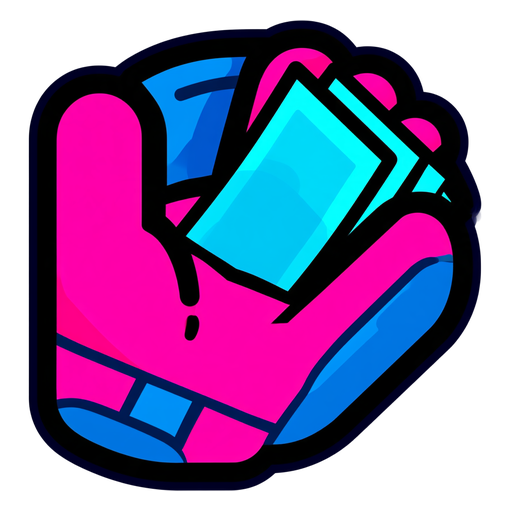
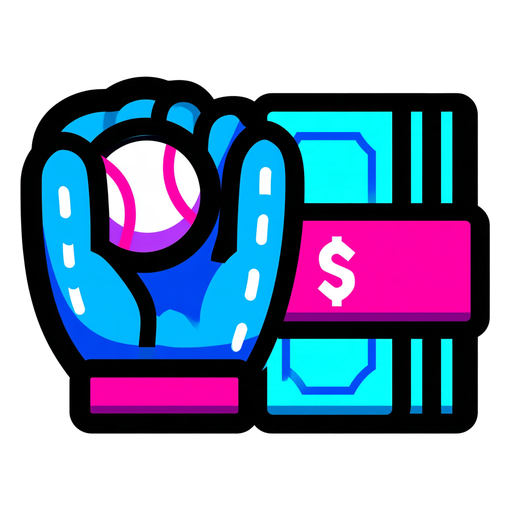
feat(mj): cash-catch se lee (guante con pelota y fajo con $); formas, dias y decenas, a lo más simple
Midjourney no acierta texto de más de tres o cuatro caracteres (dos rondas
de días y decenas con letras o cifras de menos): decenas pasa a un «10»
grande y dias a un calendario con 7 casillas sin letras. formas, tres figuras
sencillas una sobre otra, de tamaño parecido.

diff --git a/scripts/mj/tests/test_catalogo_fase5.py b/scripts/mj/tests/test_catalogo_fase5.py
@@ -77,7 +77,7 @@ def test_doty_solo_donde_la_spec_lo_pone():
 def test_solo_letras_y_numeros_llevan_glifos():
     # decenas entra en la 2ª generación: su marcador muestra 10, 20 y 30.
     assert {p["slug"] for p in _cat()["pieces"] if p.get("glyphs")} == \
-        {"abecedario", "numeros-1-20", "decenas", "dias", "cash-catch"} & _slugs()
+        {"abecedario", "numeros-1-20", "decenas", "cash-catch"} & _slugs()
 
 
 def test_solo_colores_sale_de_la_paleta_cerrada():

diff --git a/docs/superpowers/specs/2026-09-29-tiles-de-modulos-design.md b/docs/superpowers/specs/2026-09-29-tiles-de-modulos-design.md
@@ -155,8 +155,8 @@ respondería 500 sin ella.
   temas de cosas van sin él. Canon: sin zapatos, sin gafas, y sin orejas,
   nariz ni pelo — por eso `cuerpo` y `pelo` no pueden ser Doty.
 - **Texto**: prohibido salvo en `abecedario` (A B C), `numeros-1-20`
-  (1 2 3) y, desde la 2ª generación, `decenas` (10 20 30) y `dias` (las
-  iniciales M T W T F S S) y el símbolo $ de `cash-catch`, como glifos
+  (1 2 3), `decenas` (un «10» grande) y el símbolo $ de `cash-catch`, como
+  glifos
   sueltos; en esas piezas `text` sale de los negativos. Plan B si los glifos
   salen deformes: soportes en blanco y glifos compuestos después con Baloo 2
   (la fuente de display de la app) mediante sharp, como `compose-icons.mjs`.
@@ -334,10 +334,15 @@ sobrecargar"):
   luna rosa de `luna` y el cuerpo blanco de la ola de `oceano`. Para un icono
   plano con contorno navy sobre fondo liso basta con borrar el fondo conectado
   al borde: el interior nunca se toca. Se usa pieza a pieza donde rembg falla.
-- **Texto exacto por variaciones**: Midjourney escribió «10 20 30 30» y se
-  saltó un día en «M T W / F S S». Se regeneran con variaciones hasta que el
-  texto salga exacto; una pieza en `regen` ya no vuelve a recortar su descarga
-  rechazada aunque el prefijo siga emparejando (solo con `--pick` explícito).
+- **Texto: dos o tres caracteres como mucho.** Midjourney escribió «10 20 30
+  30», «10 / 30», «M T W / F S S» y «M T T / F S S»: con más de tres o cuatro
+  caracteres no acierta. `decenas` pasa a un «10» grande y `dias` a un
+  calendario con 7 casillas sin letras. Una pieza en `regen` ya no vuelve a
+  recortar su descarga rechazada aunque el prefijo siga emparejando (solo con
+  `--pick` explícito).
+- `formas`, tras seis rondas (torrecita, caja encajable, póster, fila con
+  panel, cuadrícula), queda como tres figuras sencillas una sobre otra, de
+  tamaño parecido.
 - **Juvenil, no infantil** (la guía de marca: "juvenil e irreverente, para
   todo público"; el arte dibuja arquetipos). Nada de juguetes de bebé: las
   letras son teclas de teclado mecánico, los números botones de calculadora,
